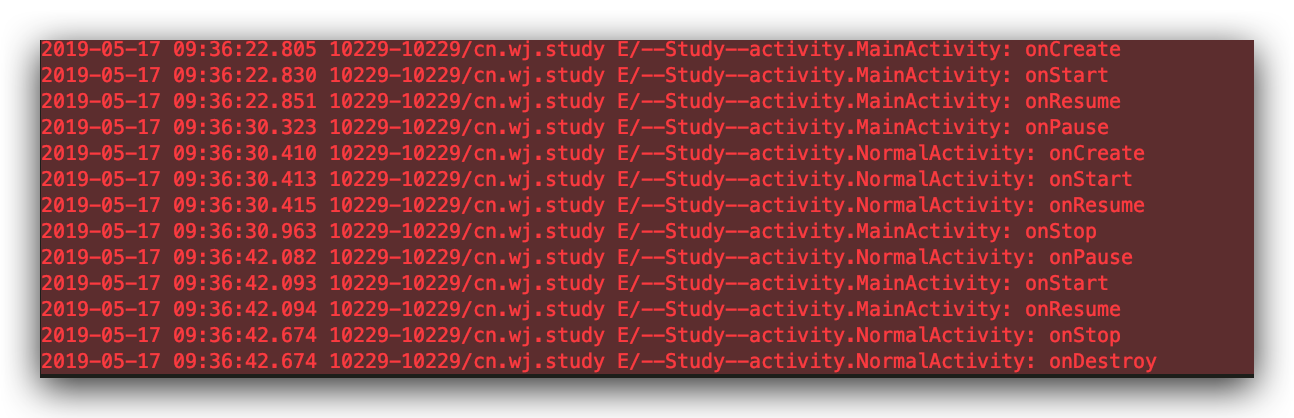
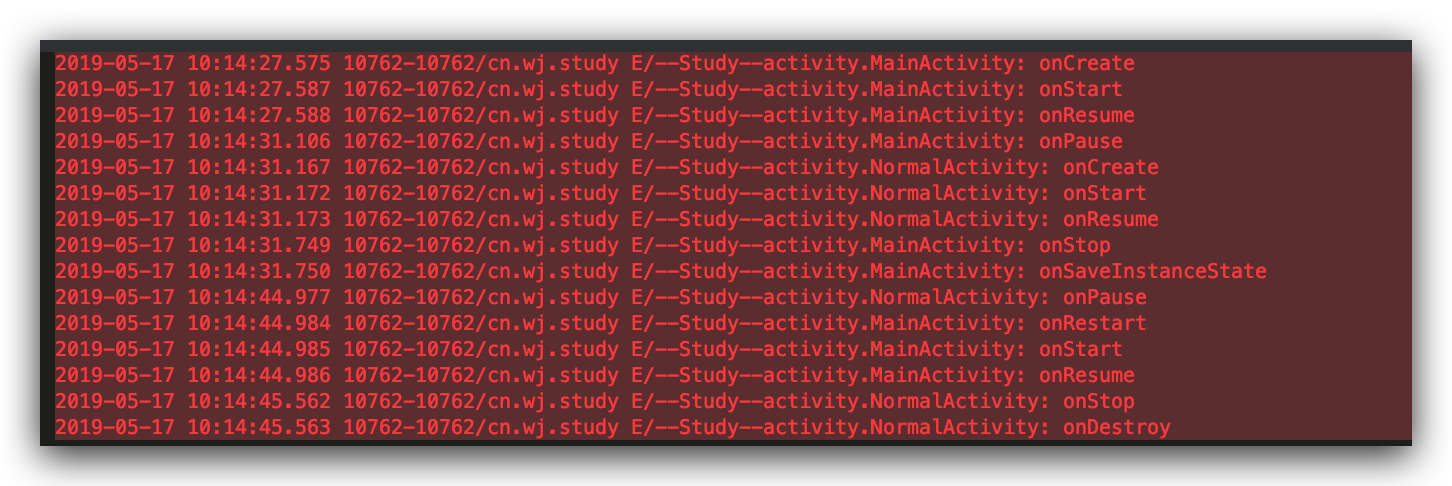
生命周期

diff --git a/app/src/main/kotlin/cn/wj/study/activity/MainActivity.kt b/app/src/main/kotlin/cn/wj/study/activity/MainActivity.kt
@@ -2,6 +2,7 @@ package cn.wj.study.activity
 
 import android.os.Bundle
 import android.util.Log
+import android.view.Menu
 import androidx.appcompat.app.AlertDialog
 import androidx.appcompat.app.AppCompatActivity
 import androidx.databinding.DataBindingUtil
@@ -20,9 +21,19 @@ class MainActivity : AppCompatActivity() {
         Log.e("--Study--" + this.localClassName, "onCreate")
     }
 
+    override fun onRestart() {
+        super.onRestart()
+        Log.e("--Study--" + this.localClassName, "onRestart")
+    }
+
     override fun onStart() {
         super.onStart()
         Log.e("--Study--" + this.localClassName, "onStart")
+    }
+
+    override fun onRestoreInstanceState(savedInstanceState: Bundle?) {
+        super.onRestoreInstanceState(savedInstanceState)
+        Log.e("--Study--" + this.localClassName, "onRestoreInstanceState")
     }
 
     override fun onResume() {
@@ -30,9 +41,19 @@ class MainActivity : AppCompatActivity() {
         Log.e("--Study--" + this.localClassName, "onResume")
     }
 
+    override fun onCreateOptionsMenu(menu: Menu?): Boolean {
+        Log.e("--Study--" + this.localClassName, "onCreateOptionsMenu")
+        return super.onCreateOptionsMenu(menu)
+    }
+
     override fun onPause() {
         super.onPause()
         Log.e("--Study--" + this.localClassName, "onPause")
+    }
+
+    override fun onSaveInstanceState(outState: Bundle) {
+        super.onSaveInstanceState(outState)
+        Log.e("--Study--" + this.localClassName, "onSaveInstanceState")
     }
 
     override fun onStop() {

diff --git a/app/src/main/kotlin/cn/wj/study/activity/TransparentActivity.kt b/app/src/main/kotlin/cn/wj/study/activity/TransparentActivity.kt
@@ -4,6 +4,7 @@ import android.content.Context
 import android.content.Intent
 import android.os.Bundle
 import android.util.Log
+import android.view.Menu
 import androidx.appcompat.app.AppCompatActivity
 import cn.wj.study.R
 
@@ -29,9 +30,19 @@ class TransparentActivity : AppCompatActivity() {
         Log.e("--Study--" + this.localClassName, "onCreate")
     }
 
+    override fun onRestart() {
+        super.onRestart()
+        Log.e("--Study--" + this.localClassName, "onRestart")
+    }
+
     override fun onStart() {
         super.onStart()
         Log.e("--Study--" + this.localClassName, "onStart")
+    }
+
+    override fun onRestoreInstanceState(savedInstanceState: Bundle?) {
+        super.onRestoreInstanceState(savedInstanceState)
+        Log.e("--Study--" + this.localClassName, "onRestoreInstanceState")
     }
 
     override fun onResume() {
@@ -39,9 +50,19 @@ class TransparentActivity : AppCompatActivity() {
         Log.e("--Study--" + this.localClassName, "onResume")
     }
 
+    override fun onCreateOptionsMenu(menu: Menu?): Boolean {
+        Log.e("--Study--" + this.localClassName, "onCreateOptionsMenu")
+        return super.onCreateOptionsMenu(menu)
+    }
+
     override fun onPause() {
         super.onPause()
         Log.e("--Study--" + this.localClassName, "onPause")
+    }
+
+    override fun onSaveInstanceState(outState: Bundle) {
+        super.onSaveInstanceState(outState)
+        Log.e("--Study--" + this.localClassName, "onSaveInstanceState")
     }
 
     override fun onStop() {

diff --git a/app/src/main/kotlin/cn/wj/study/activity/NormalActivity.kt b/app/src/main/kotlin/cn/wj/study/activity/NormalActivity.kt
@@ -4,6 +4,7 @@ import android.content.Context
 import android.content.Intent
 import android.os.Bundle
 import android.util.Log
+import android.view.Menu
 import androidx.appcompat.app.AppCompatActivity
 import cn.wj.study.R
 
@@ -28,9 +29,19 @@ class NormalActivity : AppCompatActivity() {
         Log.e("--Study--" + this.localClassName, "onCreate")
     }
 
+    override fun onRestart() {
+        super.onRestart()
+        Log.e("--Study--" + this.localClassName, "onRestart")
+    }
+
     override fun onStart() {
         super.onStart()
         Log.e("--Study--" + this.localClassName, "onStart")
+    }
+
+    override fun onRestoreInstanceState(savedInstanceState: Bundle?) {
+        super.onRestoreInstanceState(savedInstanceState)
+        Log.e("--Study--" + this.localClassName, "onRestoreInstanceState")
     }
 
     override fun onResume() {
@@ -38,9 +49,19 @@ class NormalActivity : AppCompatActivity() {
         Log.e("--Study--" + this.localClassName, "onResume")
     }
 
+    override fun onCreateOptionsMenu(menu: Menu?): Boolean {
+        Log.e("--Study--" + this.localClassName, "onCreateOptionsMenu")
+        return super.onCreateOptionsMenu(menu)
+    }
+
     override fun onPause() {
         super.onPause()
         Log.e("--Study--" + this.localClassName, "onPause")
+    }
+
+    override fun onSaveInstanceState(outState: Bundle) {
+        super.onSaveInstanceState(outState)
+        Log.e("--Study--" + this.localClassName, "onSaveInstanceState")
     }
 
     override fun onStop() {
